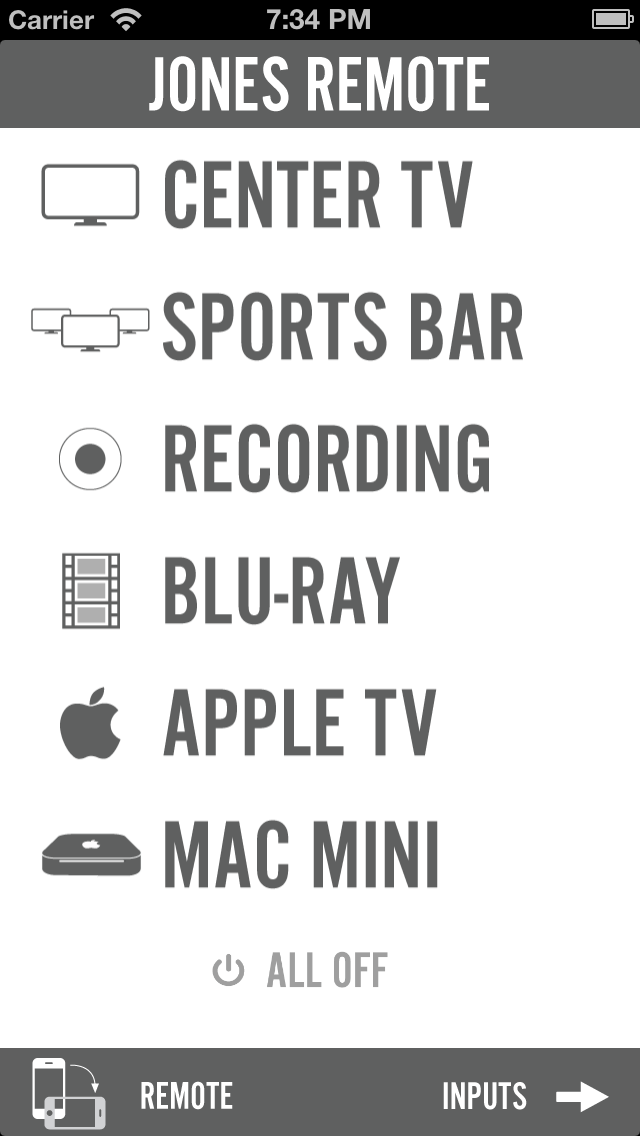
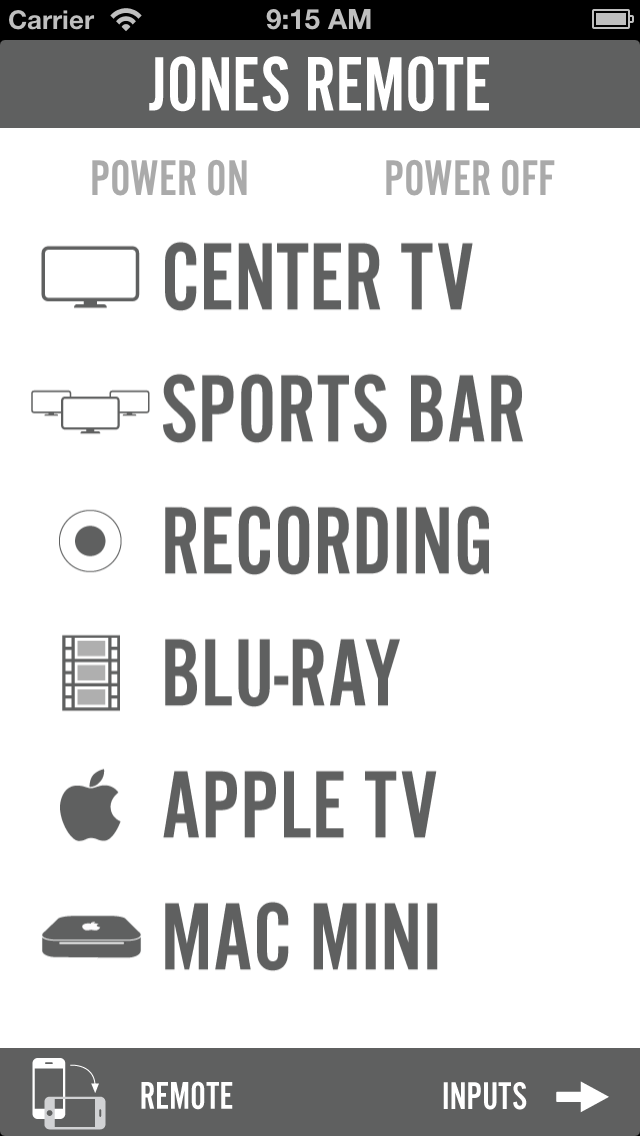
remote power on and off work

diff --git a/JonesRemote/iPhone/Scene/SceneVc_iPhone.m b/JonesRemote/iPhone/Scene/SceneVc_iPhone.m
@@ -55,6 +55,12 @@
 #pragma mark - Actions
 
 - (IBAction)handleCenterTV:(id)sender {
+    // DVR Channel
+    [[CommandCenter singleton] sendQueableIRCommand:IRCommand7 toIRDevice:IRDeviceDVR];
+    [[CommandCenter singleton] sendQueableIRCommand:IRCommand1 toIRDevice:IRDeviceDVR];
+    [[CommandCenter singleton] sendQueableIRCommand:IRCommand1 toIRDevice:IRDeviceDVR];
+    [[CommandCenter singleton] sendQueableIRCommand:IRCommandSelect toIRDevice:IRDeviceDVR];
+    
     [[CommandCenter singleton] setMatrixInput:InputDeviceDVR toOutput:OutputDeviceCenterTv];
     [[CommandCenter singleton] sendQueableIRCommand:IRCommandPowerOn toIRDevice:IRDeviceCenterTv];
     [[CommandCenter singleton] setMatrixInput:InputDeviceDVR toOutput:OutputDeviceAudioZone1];
@@ -105,10 +111,9 @@
 - (IBAction)handleRecording:(id)sender {
 
     // DVR Channel
+    [[CommandCenter singleton] sendQueableIRCommand:IRCommand7 toIRDevice:IRDeviceDVR];
     [[CommandCenter singleton] sendQueableIRCommand:IRCommand1 toIRDevice:IRDeviceDVR];
-    [[CommandCenter singleton] sendQueableIRCommand:IRCommand0 toIRDevice:IRDeviceDVR];
-    [[CommandCenter singleton] sendQueableIRCommand:IRCommand0 toIRDevice:IRDeviceDVR];
-    [[CommandCenter singleton] sendQueableIRCommand:IRCommand0 toIRDevice:IRDeviceDVR];
+    [[CommandCenter singleton] sendQueableIRCommand:IRCommand1 toIRDevice:IRDeviceDVR];
     [[CommandCenter singleton] sendQueableIRCommand:IRCommandSelect toIRDevice:IRDeviceDVR];
 
     // Recorded Shows
@@ -116,10 +121,10 @@
 
     // Matrix assignment
     [[CommandCenter singleton] setMatrixInput:InputDeviceDVR toOutput:OutputDeviceCenterTv];
-    [[CommandCenter singleton] setMatrixInput:InputDeviceDVR toOutput:OutputDeviceAudioZone1];
 
     // Power TV On
     [[CommandCenter singleton] sendQueableIRCommand:IRCommandPowerOn toIRDevice:IRDeviceCenterTv];
+    [[CommandCenter singleton] setMatrixInput:InputDeviceDVR toOutput:OutputDeviceAudioZone1];
 
     // Cleanup
     [[CommandCenter singleton] setMatrixInput:InputDeviceNone toOutput:OutputDeviceAudioZone2];
@@ -172,20 +177,6 @@
     [[CommandCenter singleton] sendQueableIRCommand:IRCommandPowerOff toIRDevice:IRDeviceRightTv];
 }
 
-- (IBAction)handleAllOff:(id)sender {
-    [[CommandCenter singleton] sendQueableIRCommand:IRCommandPowerOff toIRDevice:IRDeviceLeftTv];
-    [[CommandCenter singleton] sendQueableIRCommand:IRCommandPowerOff toIRDevice:IRDeviceCenterTv];
-    [[CommandCenter singleton] sendQueableIRCommand:IRCommandPowerOff toIRDevice:IRDeviceRightTv];
-
-    [[CommandCenter singleton] setMatrixInput:InputDeviceNone toOutput:OutputDeviceAudioZone1];
-    [[CommandCenter singleton] setMatrixInput:InputDeviceNone toOutput:OutputDeviceAudioZone2];
-    [[CommandCenter singleton] setMatrixInput:InputDeviceNone toOutput:OutputDeviceAudioZone3];
-
-    [[CommandCenter singleton] setMatrixInput:InputDeviceNone toOutput:OutputDeviceLeftTv];
-    [[CommandCenter singleton] setMatrixInput:InputDeviceNone toOutput:OutputDeviceCenterTv];
-    [[CommandCenter singleton] setMatrixInput:InputDeviceNone toOutput:OutputDeviceRightTv];
-}
-
 - (IBAction)handleInputs:(id)sender {
     AssignmentVc_iPhone *assignmentVc = [[AssignmentVc_iPhone alloc] init];
     [self.navigationController pushViewController:assignmentVc animated:YES];
@@ -196,13 +187,13 @@
 
     [[CommandCenter singleton] powerMatrixOn];
 
-    [[CommandCenter singleton] sendIRCommand:IRCommandPowerOn toIRDevice:IRDeviceDVR];
-    [[CommandCenter singleton] sendIRCommand:IRCommandPowerOn toIRDevice:IRDeviceCableA];
-    [[CommandCenter singleton] sendIRCommand:IRCommandPowerOn toIRDevice:IRDeviceCableB];
-    [[CommandCenter singleton] sendIRCommand:IRCommandPowerOn toIRDevice:IRDeviceBluRay];
+    [[CommandCenter singleton] sendQueableIRCommand:IRCommandPowerOnOff toIRDevice:IRDeviceDVR];
+    [[CommandCenter singleton] sendQueableIRCommand:IRCommandPowerOnOff toIRDevice:IRDeviceCableA];
+    [[CommandCenter singleton] sendQueableIRCommand:IRCommandPowerOnOff toIRDevice:IRDeviceCableB];
+    [[CommandCenter singleton] sendQueableIRCommand:IRCommandPowerOn toIRDevice:IRDeviceBluRay];
 
-    [self performSelector:@selector(handleCenterTV:) withObject:nil afterDelay:15.0];
-    [self performSelector:@selector(hideLoadingView) withObject:nil afterDelay:17.0];
+    [self performSelector:@selector(handleCenterTV:) withObject:nil afterDelay:25.0];
+    [self performSelector:@selector(hideLoadingView) withObject:nil afterDelay:34.0];
 }
 
 - (IBAction)handlePowerOff:(id)sender {
@@ -211,6 +202,10 @@
     [[CommandCenter singleton] setMatrixInput:InputDeviceNone toOutput:OutputDeviceAudioZone1];
     [[CommandCenter singleton] setMatrixInput:InputDeviceNone toOutput:OutputDeviceAudioZone2];
     [[CommandCenter singleton] setMatrixInput:InputDeviceNone toOutput:OutputDeviceAudioZone3];
+    
+    [[CommandCenter singleton] setMatrixInput:InputDeviceNone toOutput:OutputDeviceCenterTv];
+    [[CommandCenter singleton] setMatrixInput:InputDeviceNone toOutput:OutputDeviceLeftTv];
+    [[CommandCenter singleton] setMatrixInput:InputDeviceNone toOutput:OutputDeviceRightTv];
 
     [[CommandCenter singleton] powerMatrixOff];
 
@@ -218,12 +213,12 @@
     [[CommandCenter singleton] sendQueableIRCommand:IRCommandPowerOff toIRDevice:IRDeviceCenterTv];
     [[CommandCenter singleton] sendQueableIRCommand:IRCommandPowerOff toIRDevice:IRDeviceRightTv];
 
-    [[CommandCenter singleton] sendIRCommand:IRCommandPowerOff toIRDevice:IRDeviceDVR];
-    [[CommandCenter singleton] sendIRCommand:IRCommandPowerOff toIRDevice:IRDeviceCableA];
-    [[CommandCenter singleton] sendIRCommand:IRCommandPowerOff toIRDevice:IRDeviceCableB];
-    [[CommandCenter singleton] sendIRCommand:IRCommandPowerOff toIRDevice:IRDeviceBluRay];
+    [[CommandCenter singleton] sendQueableIRCommand:IRCommandPowerOnOff toIRDevice:IRDeviceDVR];
+    [[CommandCenter singleton] sendQueableIRCommand:IRCommandPowerOnOff toIRDevice:IRDeviceCableA];
+    [[CommandCenter singleton] sendQueableIRCommand:IRCommandPowerOnOff toIRDevice:IRDeviceCableB];
+    [[CommandCenter singleton] sendQueableIRCommand:IRCommandPowerOff toIRDevice:IRDeviceBluRay];
 
-    [self performSelector:@selector(hideLoadingView) withObject:nil afterDelay:9.0];
+    [self performSelector:@selector(hideLoadingView) withObject:nil afterDelay:15.0];
 }
 
 #pragma mark - Helpers

diff --git a/JonesRemote/CommandCenter/CommandCenter.m b/JonesRemote/CommandCenter/CommandCenter.m
@@ -93,11 +93,17 @@ SINGLETON(CommandCenter)
 #pragma mark - Matrix Commands
 
 - (void)powerMatrixOn {
-    [_matrixSocket writeData:stringForMatrixCommand(MatrixCommandPowerOn) withTimeout:MATRIX_COMMAND_TIMEOUT tag:0];
+    dispatch_async(_commandQueue, ^{
+[_matrixSocket writeData:[stringForMatrixCommand(MatrixCommandPowerOn) dataUsingEncoding:NSUTF8StringEncoding] withTimeout:MATRIX_COMMAND_TIMEOUT tag:0];
+        sleep(1);
+    });
 }
 
 - (void)powerMatrixOff {
-    [_matrixSocket writeData:stringForMatrixCommand(MatrixCommandPowerOff) withTimeout:MATRIX_COMMAND_TIMEOUT tag:0];
+    dispatch_async(_commandQueue, ^{
+        [_matrixSocket writeData:[stringForMatrixCommand(MatrixCommandPowerOff) dataUsingEncoding:NSUTF8StringEncoding] withTimeout:MATRIX_COMMAND_TIMEOUT tag:0];  
+        sleep(1);
+    });
 }
 
 - (void)setMatrixInput:(InputDevice)inputDevice toOutput:(OutputDevice)outputDevice {

diff --git a/JonesRemote/CommandCenter/IR/TimeWarnerDVR.m b/JonesRemote/CommandCenter/IR/TimeWarnerDVR.m
@@ -82,6 +82,8 @@
             return @"56000,1,1,190,192,48,144,48,144,48,47,48,144,48,144,48,47,48,47,48,47,48,47,48,47,48,47,48,52,48,47,48,144,48,47,48,47,48,144,48,144,48,144,48,144,48,144,48,144,48,2162,190,192,48,144,48,144,48,47,48,144,48,144,48,47,48,47,48,47,48,47,48,47,48,47,48,52,48,47,48,144,48,47,48,47,48,144,48,144,48,144,48,144,48,144,48,144,48,2154";
         case IRCommandLive:
             return @"";
+        case IRCommandPowerOnOff:
+            return @"37000,1,1,15,11,6,11,6,23,6,11,6,29,6,17,6,11,6,11,6,11,6,11,6,23,6,17,6,23,6,11,6,11,6,29,6,11,6,3268,15,11,6,11,6,23,6,11,6,29,6,17,6,11,6,11,6,11,6,11,6,23,6,17,6,23,6,11,6,11,6,29,6,11,6,3224";
         default:
             return @"";
     }

diff --git a/JonesRemote/CommandCenter/IR/IREnum.h b/JonesRemote/CommandCenter/IR/IREnum.h
@@ -13,7 +13,7 @@ typedef enum {
     IRCommandRewind, IRCommandFastForward, IRCommandPlay, IRCommandPause, IRCommandStop, IRCommandRecord, IRCommandLive,
     IRCommandGuide, IRCommandRecordedShows, IRCommandPageUp, IRCommandPageDown, IRCommandUp, IRCommandDown, IRCommandLeft, IRCommandRight, IRCommandSelect, IRCommandExit,
     IRCommandA, IRCommandB, IRCommandC, IRCommandInfo,
-    IRCommandPowerOn, IRCommandPowerOff, IRCommandVolUp, IRCommandVolDown, IRCommandMute,
+    IRCommandPowerOn, IRCommandPowerOff, IRCommandPowerOnOff, IRCommandVolUp, IRCommandVolDown, IRCommandMute,
     IRCommandPlusDay, IRCommandMinusDay, IRCommandPlusChannel, IRCommandMinusChannel,
     IRCommandStatus, IRCommandBack
 } IRCommand;
